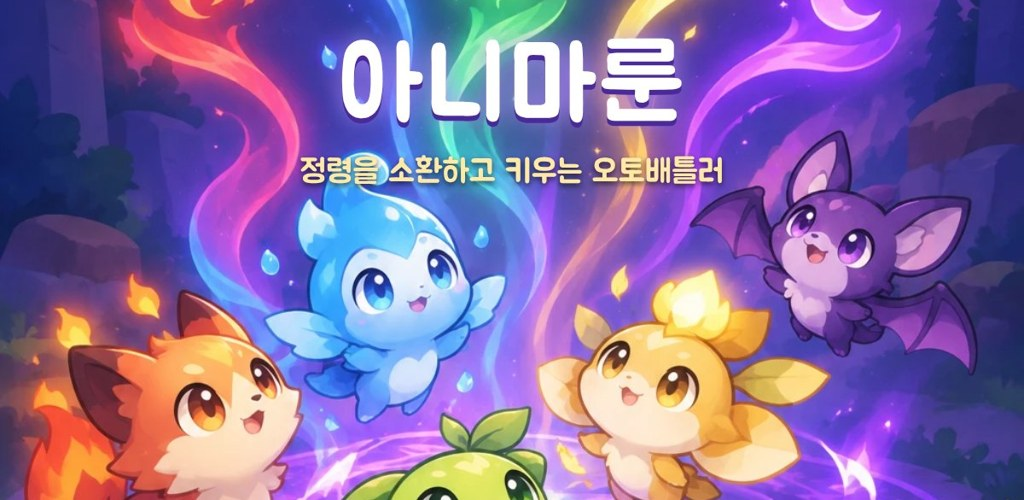
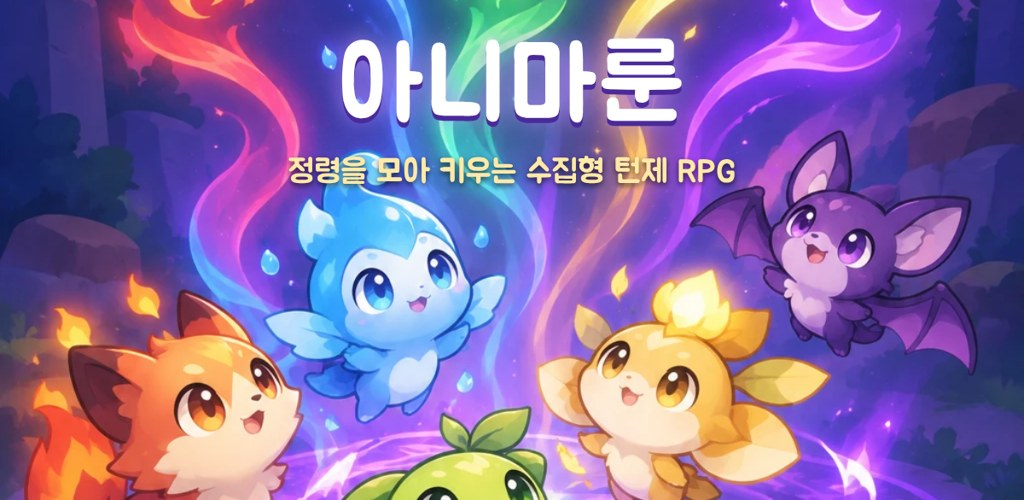
[Docs] Describe Game As Collectible Turn-Based RPG (v8.12.0)
Claude-Session: https://claude.ai/code/session_01QDQonFxmDiUGFurpbSRpPB

Changed region(s): [[0.2812, 0.3, 0.7188, 0.39]]

diff --git a/index.html b/index.html
@@ -10,11 +10,11 @@
 <meta name="apple-mobile-web-app-status-bar-style" content="black">
 <meta name="apple-mobile-web-app-title" content="아니마룬">
 <meta name="format-detection" content="telephone=no">
-<meta name="description" content="신화 속 정령을 소환하고 키우는 오토배틀러 · 설치 없이 브라우저에서 바로">
+<meta name="description" content="신화 속 정령을 모아 키우는 수집형 턴제 RPG · 설치 없이 브라우저에서 바로">
 <meta property="og:type" content="website">
 <meta property="og:site_name" content="아니마룬">
 <meta property="og:title" content="아니마룬">
-<meta property="og:description" content="신화 속 정령을 소환하고 키우는 오토배틀러 · 설치 없이 브라우저에서 바로">
+<meta property="og:description" content="신화 속 정령을 모아 키우는 수집형 턴제 RPG · 설치 없이 브라우저에서 바로">
 <meta property="og:url" content="https://dfdeer.github.io/AnimaRune/">
 <meta property="og:image" content="https://dfdeer.github.io/AnimaRune/og-image.jpg">
 <meta property="og:image:width" content="1200">

diff --git a/docs/출시_정보.md b/docs/출시_정보.md
@@ -7,9 +7,9 @@
 | 항목 | 내용 |
 |---|---|
 | 앱 이름 | 아니마룬 |
-| 짧은 설명 (80자 이내) | 신화 속 정령을 소환하고 키우는 오토배틀러 · 설치 없이 브라우저에서 바로 |
+| 짧은 설명 (80자 이내) | 신화 속 정령을 모아 키우는 수집형 턴제 RPG · 설치 없이 브라우저에서 바로 |
 | 카테고리 | 게임 › 롤플레잉 (대안: 전략) |
-| 태그 | 수집형 · 턴제 · 오토배틀 · 판타지 · 싱글플레이 · 협동 |
+| 태그 | 수집형 · 턴제 · 자동 전투 · 판타지 · 싱글플레이 · 협동 |
 | 가격 | 무료 |
 | 광고 | 없음 |
 | 인앱 결제 | 없음 (설정의 「개발 응원하기」는 게임 밖 카카오페이 송금, 게임 안 보상 없음) |
